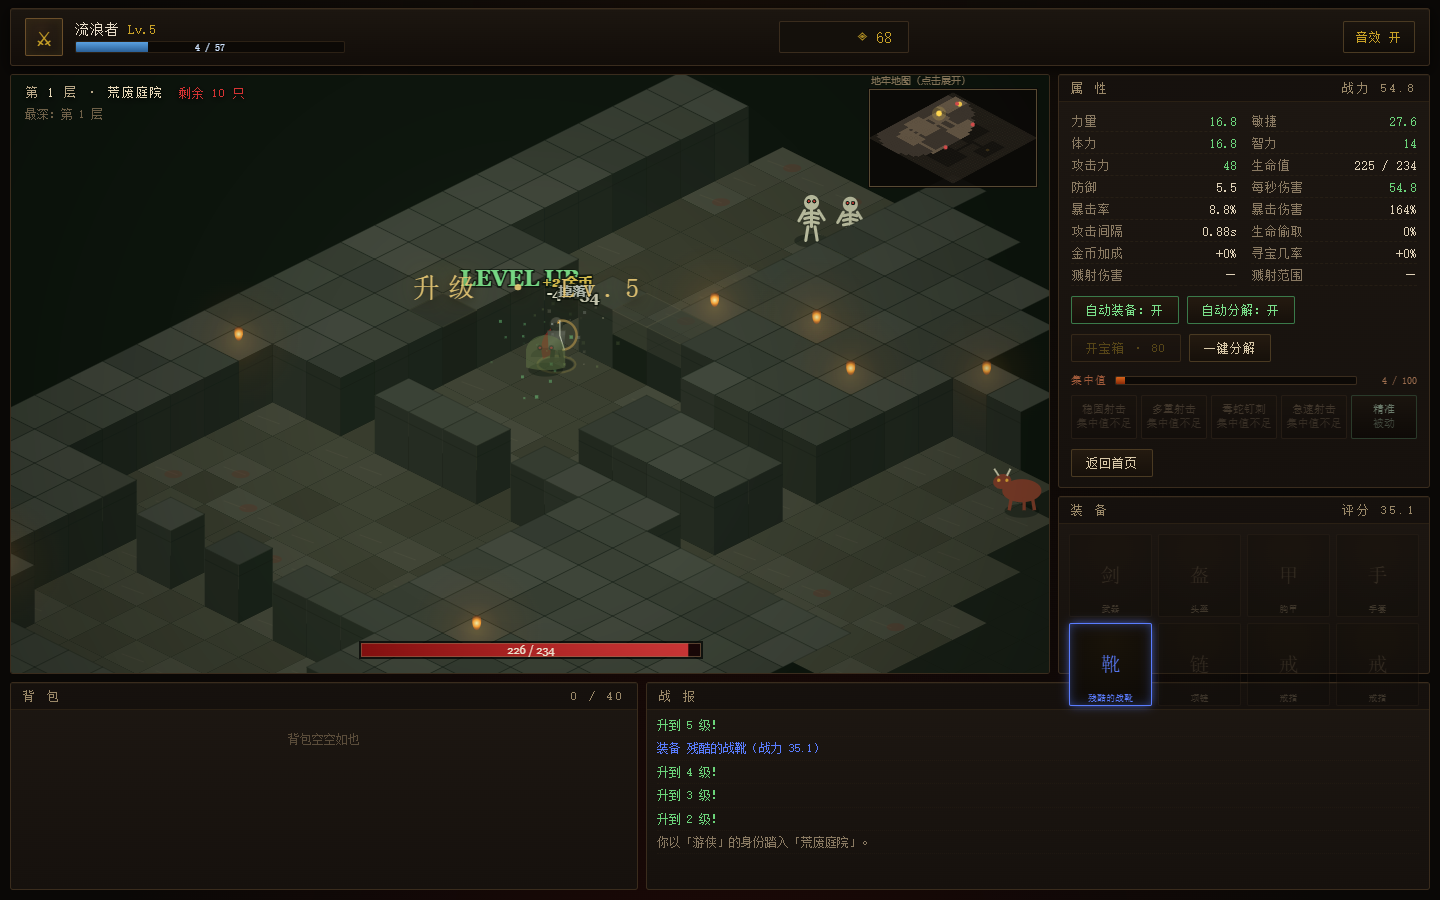
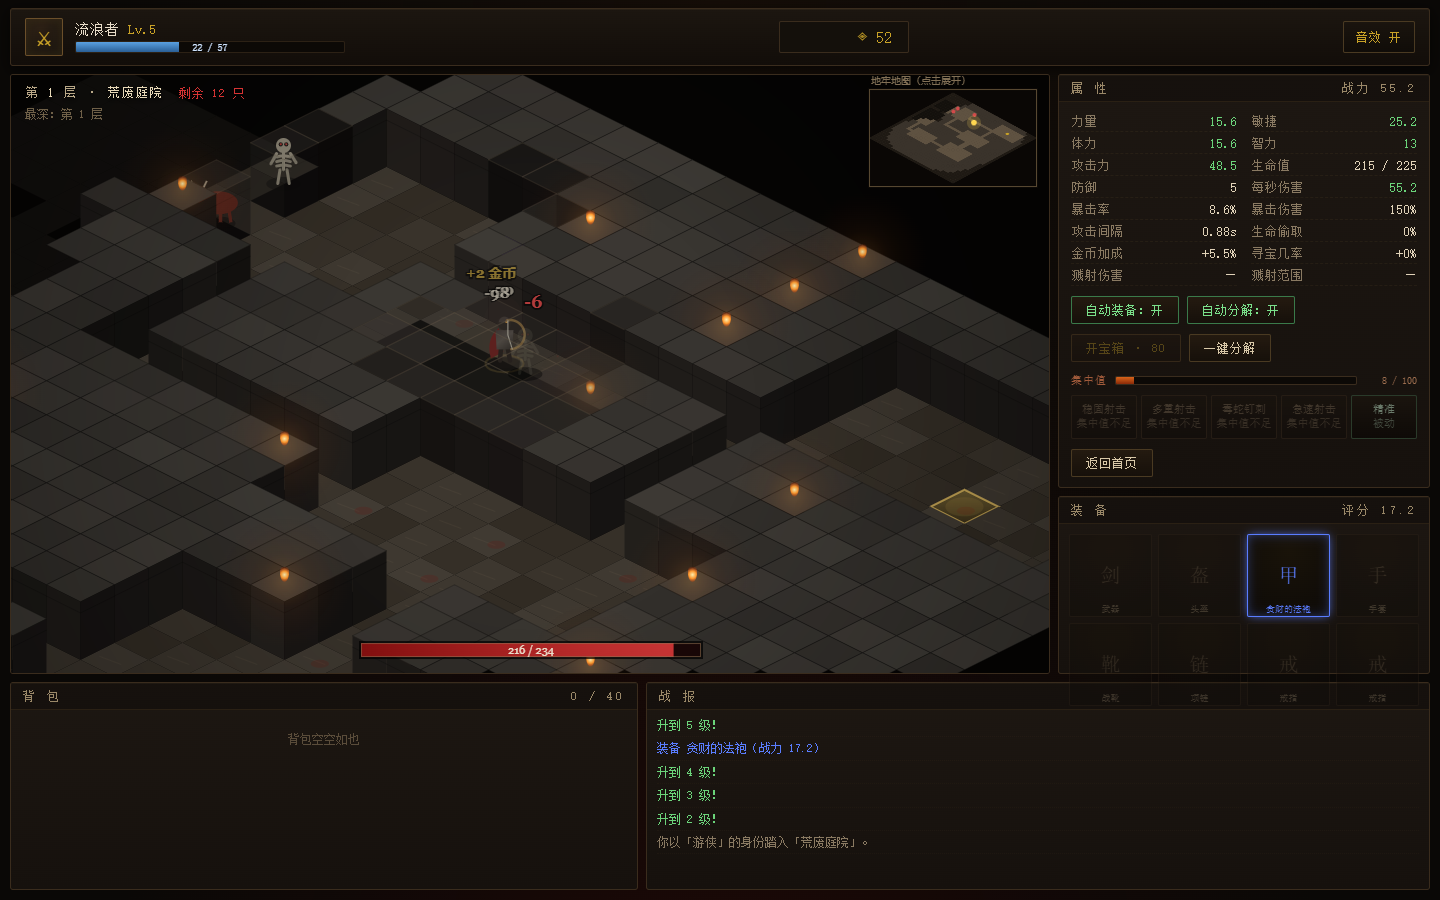
ui: 移除受击全屏闪红，保留角色泛红/伤害数字/血条/震动

diff --git a/js/ui.js b/js/ui.js
@@ -391,17 +391,7 @@
         ctx.fillStyle = 'rgba(110, 220, 130, ' + (this.levelGlow * 0.14) + ')';
         ctx.fillRect(0, 0, W, H);
       }
-      if (this.hurtFlash > 0) {
-        // 受击瞬间整屏泛红，然后快速衰减
-        ctx.fillStyle = 'rgba(190, 24, 24, ' + (this.hurtFlash * 0.14) + ')';
-        ctx.fillRect(0, 0, W, H);
-        // 四周更浓的红色晕影
-        const vg = ctx.createRadialGradient(W / 2, H / 2, Math.min(W, H) * 0.25, W / 2, H / 2, Math.max(W, H) * 0.7);
-        vg.addColorStop(0, 'rgba(180,0,0,0)');
-        vg.addColorStop(1, 'rgba(180,0,0,' + (this.hurtFlash * 0.32) + ')');
-        ctx.fillStyle = vg;
-        ctx.fillRect(0, 0, W, H);
-      }
+      // 受击闪屏已移除，只保留角色泛红 + 伤害数字 + 血条 + 震动
       if (this.flash > 0) {
         ctx.fillStyle = 'rgba(' + this.flashColor + ',' + (this.flash * 0.35) + ')';
         ctx.fillRect(0, 0, W, H);
